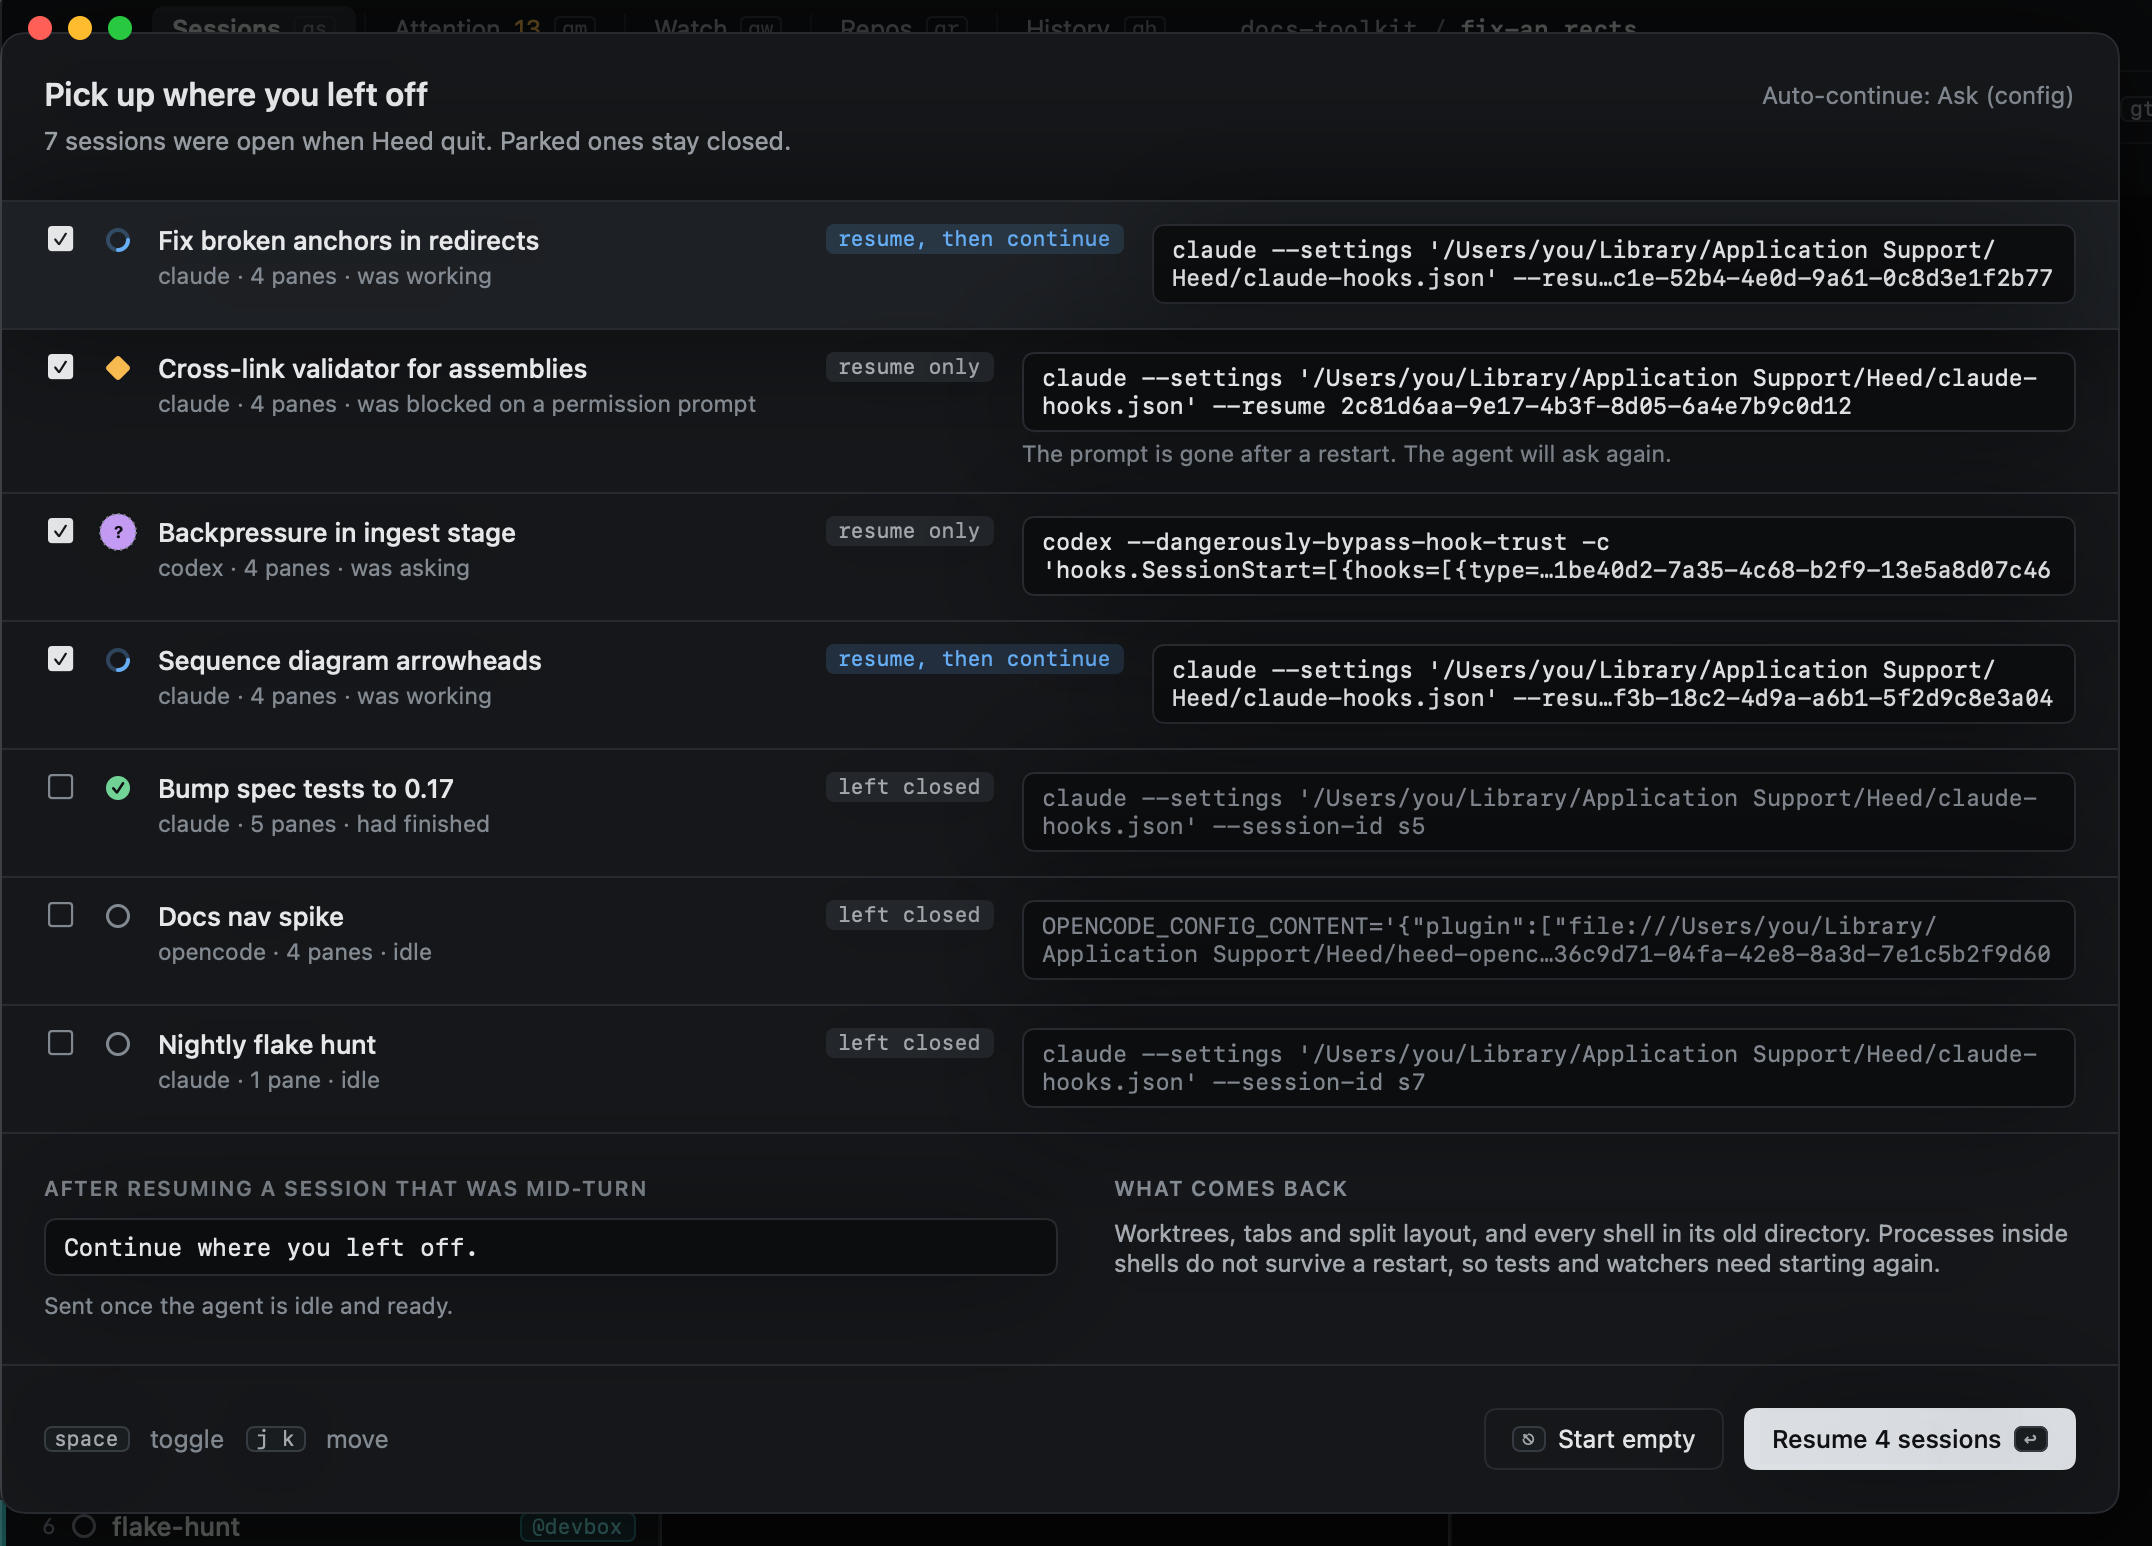
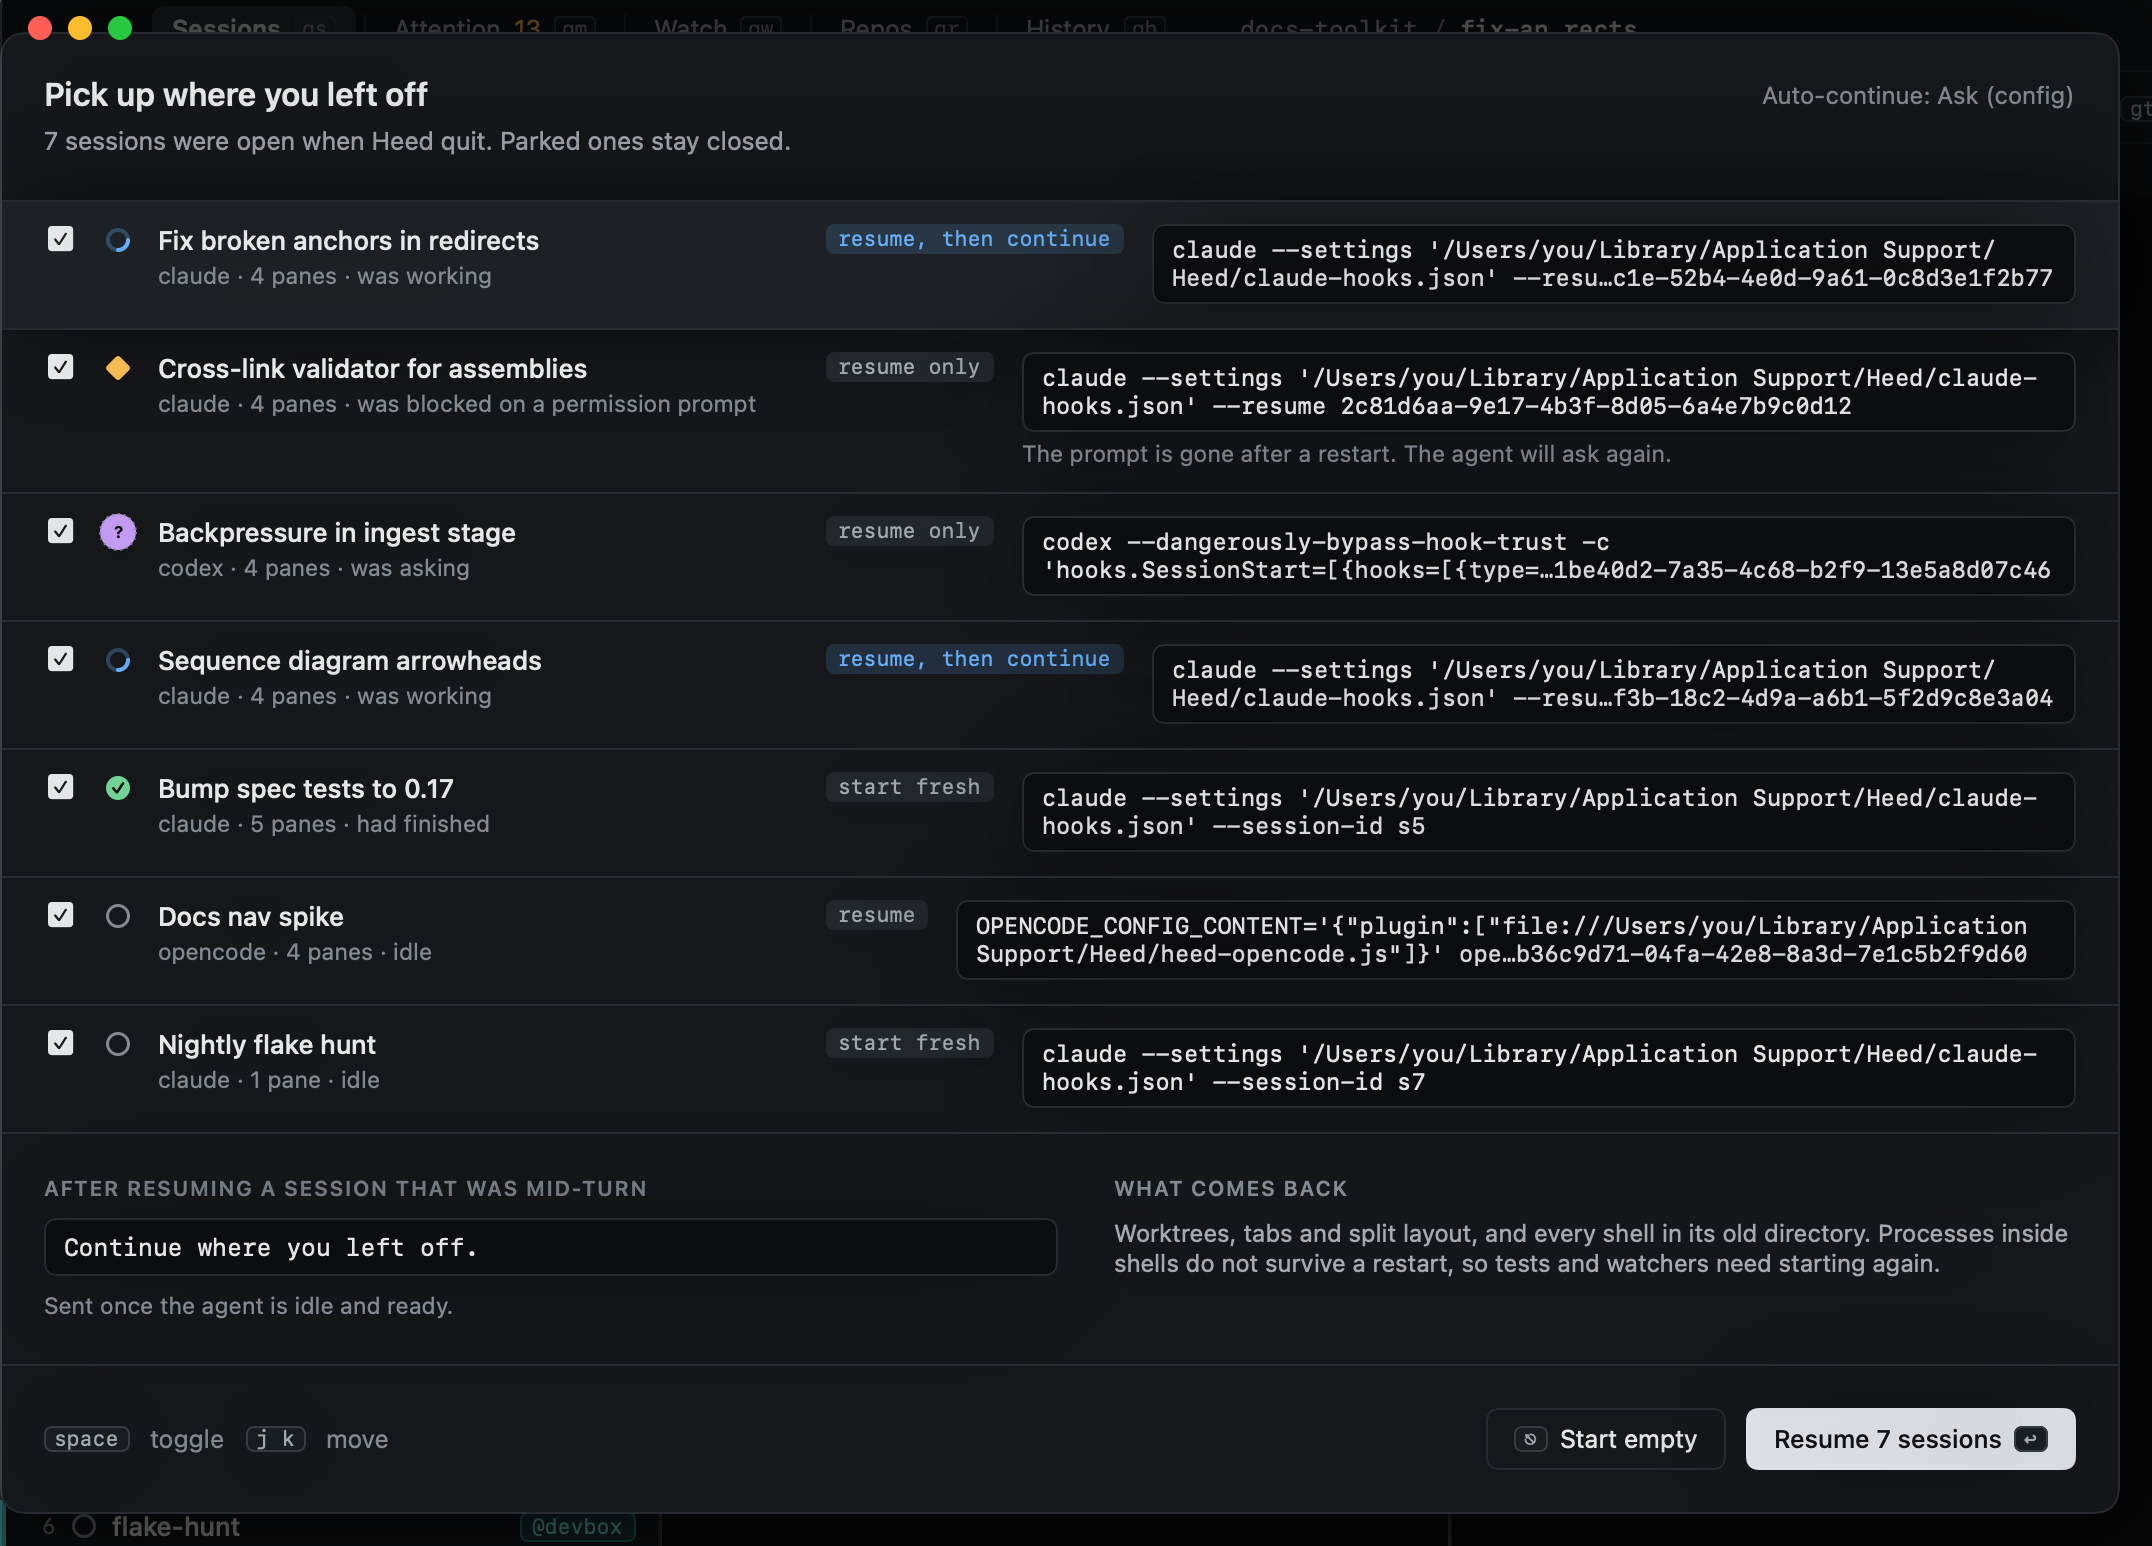
The resume dialog starts with every session ticked (#150)
The owner asked for the resume window to select everything by default.

- `ResumeForm` ticks every candidate. Idle and finished sessions were
unticked as "left closed".
- A ticked idle or finished session is labelled **resume**, or **start
fresh** when its agent no longer has the session, so the label says what
will happen. Unticked, it still reads "left closed".
- `resume_on_launch = "always"` is unchanged: it still resumes only
sessions that were working, blocked or asking. `defaultSelected` is
renamed `resumesWithoutAsking` to say what it decides.
`docs/sessions/resume.md` said `always` resumes "them all", which was
never what the code did; it now describes the actual behaviour.
- Tests: the form ticks every session; the label for ticked
resumable/fresh idle sessions; `always` still leaves idle and finished
closed. Reverting either change fails a test. `mise run test` (1000) and
`mise run lint` pass.
- `sessions/resume.png` re-rendered from the fixture world.

🤖 Generated with [Claude Code](https://claude.com/claude-code)

diff --git a/Sources/HeedCore/Sessions/Resume.swift b/Sources/HeedCore/Sessions/Resume.swift
@@ -13,7 +13,7 @@ public struct ResumeCandidate: Identifiable, Hashable, Sendable {
         case resumeOnly = "resume only"
         /// The agent no longer has the session (or cannot resume): start again from the prompt.
         case startFresh = "start fresh"
-        /// Idle or finished: offered, not ticked.
+        /// Idle or finished: ticked in the dialog like the rest, but `always` leaves it closed.
         case leftClosed = "left closed"
     }
 
@@ -23,9 +23,19 @@ public struct ResumeCandidate: Identifiable, Hashable, Sendable {
     /// The exact line typed into the agent pane.
     public let command: ShellCommand
     public let paneCount: Int
+    /// The agent no longer has the session, so `command` starts it again from its prompt.
+    public var startsFresh = false
 
-    /// Whether it is ticked by default.
-    public var defaultSelected: Bool { mode != .leftClosed }
+    /// What the dialog says will happen. An idle or finished session is "left closed" until you tick it; ticked, it
+    /// resumes (or starts fresh when the agent no longer has the session).
+    public func label(ticked: Bool) -> String {
+        guard mode == .leftClosed else { return mode.rawValue }
+        guard ticked else { return mode.rawValue }
+        return startsFresh ? Mode.startFresh.rawValue : "resume"
+    }
+
+    /// Whether `resume_on_launch = "always"` resumes it without asking (the dialog ticks every candidate).
+    public var resumesWithoutAsking: Bool { mode != .leftClosed }
 
     /// "was working", "was blocked on a permission prompt", "idle for 2h".
     public var summary: String {
@@ -80,7 +90,8 @@ public enum Resume {
                 let command = agent.launchCommand(prompt: session.prompt, extraArguments: fresh, environment: env)
                 let active = [.working, .blocked, .asking, .limited].contains(session.state.state)
                 return ResumeCandidate(
-                    session: session, mode: active ? .startFresh : .leftClosed, command: command, paneCount: panes
+                    session: session, mode: active ? .startFresh : .leftClosed, command: command, paneCount: panes,
+                    startsFresh: true
                 )
             }
             let mode: ResumeCandidate.Mode = switch session.state.state {
@@ -109,7 +120,7 @@ public struct ResumeForm: Sendable {
 
     public init(candidates: [ResumeCandidate]) {
         self.candidates = candidates
-        selected = Set(candidates.filter(\.defaultSelected).map(\.id))
+        selected = Set(candidates.map(\.id))
     }
 
     public var chosen: [ResumeCandidate] { candidates.filter { selected.contains($0.id) } }

diff --git a/Tests/HeedCoreTests/ResumeTests.swift b/Tests/HeedCoreTests/ResumeTests.swift
@@ -46,15 +46,31 @@ struct ResumeTests {
         #expect(command == "claude --settings /tmp/h/claude-hooks.json --resume abc")
     }
 
-    @Test func formTicksActiveSessionsAndToggles() {
+    @Test func formTicksEverySessionAndToggles() {
         let domain = Domain(sessions: [session("w", .working), session("d", .done)])
         var form = ResumeForm(candidates: Resume.candidates(domain: domain, settings: .default, integration: nil))
-        #expect(form.chosen.map(\.id) == ["w"])
+        #expect(form.chosen.map(\.id) == ["w", "d"])
         _ = form.handle(KeyStroke("j"))
         _ = form.handle(KeyStroke("Space"))
         #expect(form.handle(KeyStroke("CR", .command)) == .resume(form.chosen))
-        #expect(form.chosen.map(\.id) == ["w", "d"])
+        #expect(form.chosen.map(\.id) == ["w"])
         #expect(form.handle(.escape) == .startEmpty)
+    }
+
+    @Test func aTickedIdleSessionSaysWhatHappens() {
+        let domain = Domain(sessions: [session("d", .done, agentID: "abc"), session("i", .idle, agentID: nil)])
+        let candidates = Resume.candidates(domain: domain, settings: .default, integration: nil) { _ in true }
+        let resumes = try? #require(candidates.first { $0.id == "d" })
+        #expect(resumes?.label(ticked: false) == "left closed")
+        #expect(resumes?.label(ticked: true) == "resume")
+        let fresh = try? #require(candidates.first { $0.id == "i" })
+        #expect(fresh?.label(ticked: true) == "start fresh")
+    }
+
+    @Test func alwaysStillLeavesIdleAndFinishedSessionsClosed() {
+        let domain = Domain(sessions: [session("w", .working), session("d", .done), session("i", .idle)])
+        let candidates = Resume.candidates(domain: domain, settings: .default, integration: nil)
+        #expect(candidates.filter(\.resumesWithoutAsking).map(\.id) == ["w"])
     }
 
     @Test func claudeSessionFilesAreFoundByEncodedDirectory() throws {

diff --git a/Sources/HeedApp/Views/ResumeView.swift b/Sources/HeedApp/Views/ResumeView.swift
@@ -118,7 +118,7 @@ struct ResumeView: View {
                 .lineLimit(1)
             }
             .frame(minWidth: 180, maxWidth: 320, alignment: .leading)
-            Text(candidate.mode.rawValue)
+            Text(candidate.label(ticked: selected))
                 .font(Theme.mono(10.5))
                 .foregroundStyle(candidate.mode == .resumeThenContinue ? Theme.busy : Theme.fg2)
                 .padding(.horizontal, 6)

diff --git a/Sources/HeedApp/Model/AppModel.swift b/Sources/HeedApp/Model/AppModel.swift
@@ -683,7 +683,7 @@ final class AppModel {
             return
         }
         if settings.resumeOnLaunch == .always, !asked {
-            resumeSessions(candidates.filter(\.defaultSelected))
+            resumeSessions(candidates.filter(\.resumesWithoutAsking))
         } else {
             resume = ResumeForm(candidates: candidates)
         }

diff --git a/docs/sessions/resume.md b/docs/sessions/resume.md
@@ -10,8 +10,8 @@ under `[sessions]`:
 
 | Value | On launch |
 |---|---|
-| `ask` | List the sessions that were open and let you pick which agents to resume (the default) |
-| `always` | Resume them all |
+| `ask` | List the sessions that were open, all ticked, and let you untick the ones to leave closed (the default) |
+| `always` | Resume the ones that were working, blocked or asking; idle and finished ones stay closed |
 | `never` | Open plain shells; resume by hand |
 
 ![The resume dialog: sessions that were open, which can resume, and which agent sessions are gone](../images/shots/sessions/resume.png)
